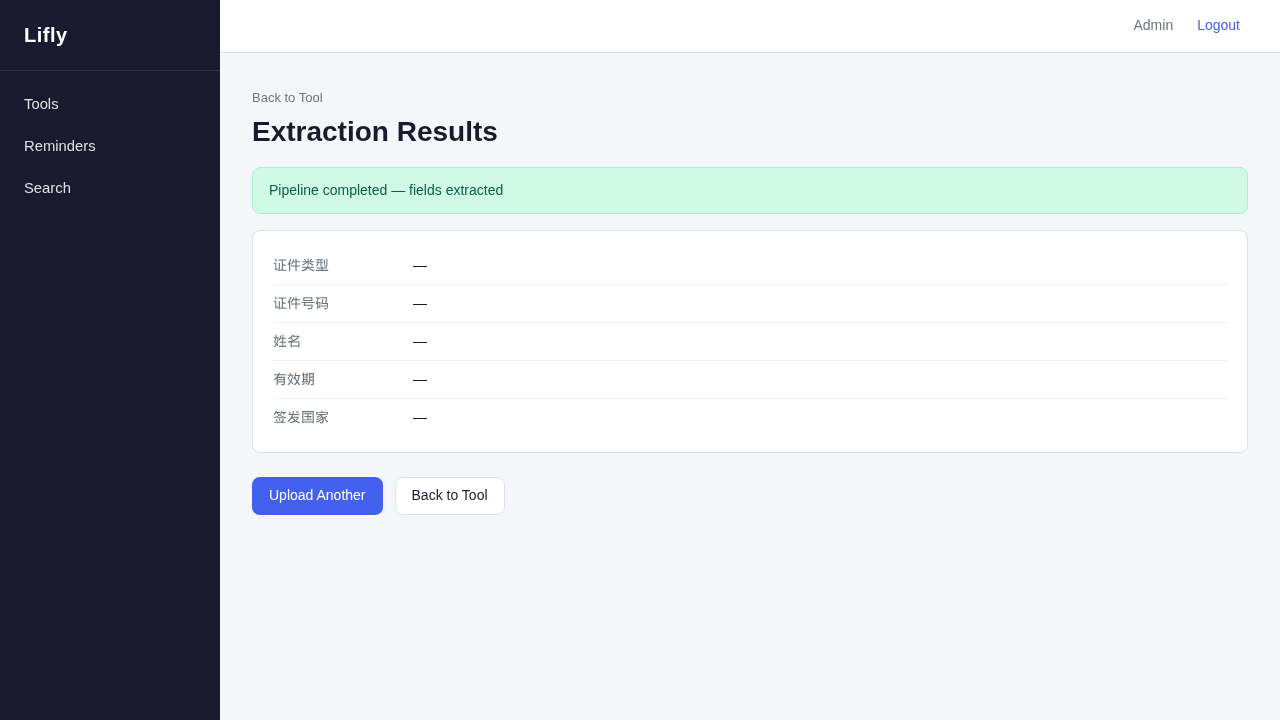
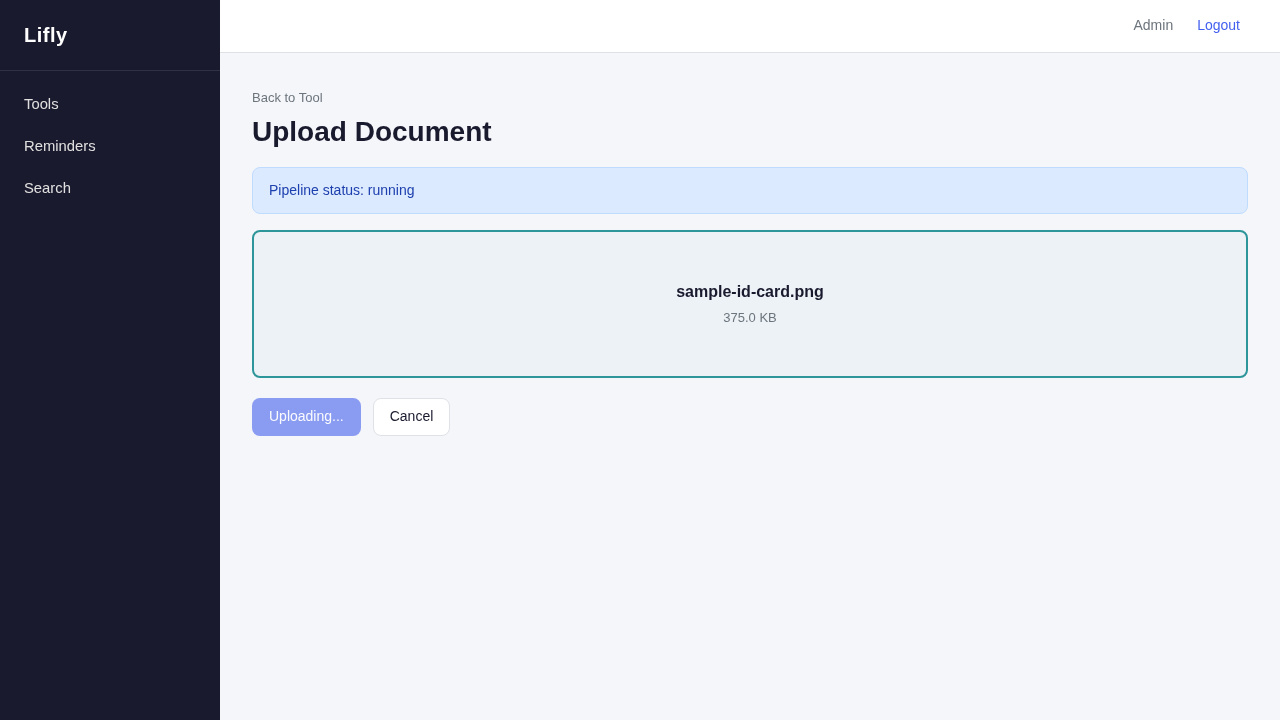
fix: repair document OCR pipeline and improve frontend display
Backend fixes:
- Fix Gemini model names (gemini-3.1-pro → gemini-2.5-pro, etc.)
  that caused 404 errors on all LLM pipeline steps
- Fix mime_type path in step mappings (raw_input.mime_type →
  raw_input.metadata.mime_type)
- Parse LLM JSON responses in executor (handles raw JSON and
  markdown-fenced JSON from Gemini)
- Improve todo_parse prompt to return flat object with original
  content preserved
- Unwrap single-item array wrappers in data_object_write
- Fix integration test pipeline polling timeout

Frontend fixes:
- Fix FileStorage type to match backend (file_name, mime_type,
  file_size)
- Show uploaded image preview in extraction results
- Fix displayTitle to skip base64 data, prefer content field
- Detect and label base64 image data in attribute display
- Filter WebSocket pipeline events by pipeline_id to prevent
  cross-pipeline interference
- Improve E2E test stability with proper timeouts

OCR now successfully extracts: 证件类型, 证件号码, 姓名, 有效期,
签发国家 from real ID card images via Gemini 2.5 Pro vision.

All 36 E2E tests passing, 0 flaky.

diff --git a/web/src/pages/DataObjectPage.tsx b/web/src/pages/DataObjectPage.tsx
@@ -5,7 +5,14 @@ import type { DataObject, FileStorage } from '../api/types';
 
 function displayTitle(obj: DataObject): string {
   const a = obj.attributes;
-  return String(a?.title || a?.content || a?.full_name || a?.cert_type || 'Untitled');
+  const candidates = [a?.content, a?.title, a?.full_name, a?.cert_type];
+  for (const c of candidates) {
+    if (c != null) {
+      const s = String(c);
+      if (s.length > 0 && s.length <= 200) return s;
+    }
+  }
+  return 'Untitled';
 }
 
 export default function DataObjectPage() {
@@ -114,12 +121,18 @@ export default function DataObjectPage() {
 
           <h2>Attributes</h2>
           <div className="attributes-view">
-            {Object.entries(obj.attributes || {}).map(([key, value]) => (
-              <div className="detail-row" key={key}>
-                <span className="detail-label">{key}</span>
-                <span>{typeof value === 'object' ? JSON.stringify(value) : String(value)}</span>
-              </div>
-            ))}
+            {Object.entries(obj.attributes || {}).map(([key, value]) => {
+              const str = typeof value === 'object' ? JSON.stringify(value) : String(value ?? '');
+              // Detect base64 image data and truncate display
+              const isBase64Image = typeof value === 'string' && value.length > 500 &&
+                /^[A-Za-z0-9+/=\s]+$/.test(value.slice(0, 100));
+              return (
+                <div className="detail-row" key={key}>
+                  <span className="detail-label">{key}</span>
+                  <span>{isBase64Image ? `[Image data, ${(str.length / 1024).toFixed(0)} KB]` : str}</span>
+                </div>
+              );
+            })}
             {Object.keys(obj.attributes || {}).length === 0 && (
               <p className="empty-state">No attributes.</p>
             )}
@@ -132,10 +145,10 @@ export default function DataObjectPage() {
                 {associatedFiles.map((f) => (
                   <li key={f.id}>
                     <a href={filesApi.getFileUrl(f.id)} target="_blank" rel="noopener noreferrer">
-                      {f.filename}
+                      {f.file_name}
                     </a>
                     <span className="file-meta">
-                      {f.content_type} &middot; {(f.size / 1024).toFixed(1)} KB
+                      {f.mime_type} &middot; {(f.file_size / 1024).toFixed(1)} KB
                     </span>
                   </li>
                 ))}

diff --git a/web/src/pages/DocUploadPage.tsx b/web/src/pages/DocUploadPage.tsx
@@ -19,8 +19,10 @@ export default function DocUploadPage() {
   const [dragging, setDragging] = useState(false);
   const [submitting, setSubmitting] = useState(false);
   const [pipelineStatus, setPipelineStatus] = useState('');
+  const [pipelineId, setPipelineId] = useState('');
   const [error, setError] = useState('');
   const [resultObject, setResultObject] = useState<DataObject | null>(null);
+  const [imagePreview, setImagePreview] = useState<string | null>(null);
 
   const loadResult = useCallback(async () => {
     if (!toolId) return;
@@ -36,7 +38,7 @@ export default function DocUploadPage() {
   }, [toolId]);
 
   useWebSocket((msg) => {
-    if (msg.type === 'pipeline.status') {
+    if (msg.type === 'pipeline.status' && pipelineId && msg.payload.pipeline_id === pipelineId) {
       const status = msg.payload.status as string;
       setPipelineStatus(status);
       if (status === 'completed') {
@@ -81,7 +83,10 @@ export default function DocUploadPage() {
         reader.readAsDataURL(file);
       });
 
-      await rawInputs.createRawInput({
+      // Keep image preview for result display
+      setImagePreview(`data:${file.type};base64,${base64}`);
+
+      const result = await rawInputs.createRawInput({
         tool_id: toolId,
         input_type: 'image',
         raw_content: base64,
@@ -91,6 +96,7 @@ export default function DocUploadPage() {
           size: file.size,
         },
       });
+      if (result.pipeline_id) setPipelineId(result.pipeline_id);
       setPipelineStatus('submitted');
     } catch (err) {
       setError(err instanceof Error ? err.message : 'Upload failed');
@@ -102,8 +108,10 @@ export default function DocUploadPage() {
     setFile(null);
     setSubmitting(false);
     setPipelineStatus('');
+    setPipelineId('');
     setError('');
     setResultObject(null);
+    setImagePreview(null);
   };
 
   // ---------- Extraction results view ----------
@@ -115,6 +123,12 @@ export default function DocUploadPage() {
         <h1>Extraction Results</h1>
 
         <div className="alert alert-success">Pipeline completed — fields extracted</div>
+
+        {imagePreview && (
+          <div className="doc-image-preview">
+            <img src={imagePreview} alt="Uploaded document" style={{ maxWidth: '400px', borderRadius: '8px', border: '1px solid #ddd' }} />
+          </div>
+        )}
 
         <div className="detail-grid">
           {CERT_FIELDS.map(({ key, label }) => (

diff --git a/web/e2e/search.spec.ts b/web/e2e/search.spec.ts
@@ -60,10 +60,17 @@ test.describe('Search', () => {
     await createTodoViaApi(request, baseURL, token, searchTerm);
 
     await page.goto('/search');
-    await page.fill('.search-input', searchTerm);
-    await page.click('button[type="submit"]');
 
-    await expect(page.locator('.table')).toBeVisible({ timeout: 10_000 });
+    // Retry search a few times — LLM pipeline may still be finishing under load
+    for (let attempt = 0; attempt < 3; attempt++) {
+      await page.fill('.search-input', searchTerm);
+      await page.click('button[type="submit"]');
+      const found = await page.locator('.table').isVisible({ timeout: 5_000 }).catch(() => false);
+      if (found) break;
+      await page.waitForTimeout(2000);
+    }
+
+    await expect(page.locator('.table')).toBeVisible({ timeout: 5_000 });
 
     // Click View on first result
     await page.locator('.table tbody tr .btn', { hasText: 'View' }).first().click();

diff --git a/web/src/api/types.ts b/web/src/api/types.ts
@@ -59,11 +59,12 @@ export interface DataObject {
 
 export interface FileStorage {
   id: string;
-  data_object_id: string;
-  filename: string;
-  content_type: string;
-  size: number;
-  storage_path: string;
+  data_object_id: string | null;
+  raw_input_id: string | null;
+  file_name: string;
+  mime_type: string;
+  file_size: number;
+  role: string;
   created_at: string;
 }
 

diff --git a/web/src/pages/ToolPage.tsx b/web/src/pages/ToolPage.tsx
@@ -6,7 +6,15 @@ import type { Tool, DataObject } from '../api/types';
 /** Extract a display title from a data object's attributes. */
 function displayTitle(obj: DataObject): string {
   const a = obj.attributes;
-  return String(a?.title || a?.content || a?.full_name || a?.cert_type || 'Untitled');
+  // Prefer content (original user input), then structured fields; skip base64-like data
+  const candidates = [a?.content, a?.title, a?.full_name, a?.cert_type];
+  for (const c of candidates) {
+    if (c != null) {
+      const s = String(c);
+      if (s.length > 0 && s.length <= 200) return s;
+    }
+  }
+  return 'Untitled';
 }
 
 export default function ToolPage() {

diff --git a/web/src/pages/SearchPage.tsx b/web/src/pages/SearchPage.tsx
@@ -5,7 +5,14 @@ import type { DataObject } from '../api/types';
 
 function displayTitle(obj: DataObject): string {
   const a = obj.attributes;
-  return String(a?.title || a?.content || a?.full_name || a?.cert_type || 'Untitled');
+  const candidates = [a?.content, a?.title, a?.full_name, a?.cert_type];
+  for (const c of candidates) {
+    if (c != null) {
+      const s = String(c);
+      if (s.length > 0 && s.length <= 200) return s;
+    }
+  }
+  return 'Untitled';
 }
 
 export default function SearchPage() {

diff --git a/web/src/pages/TodoInputPage.tsx b/web/src/pages/TodoInputPage.tsx
@@ -9,10 +9,11 @@ export default function TodoInputPage() {
   const [content, setContent] = useState('');
   const [submitting, setSubmitting] = useState(false);
   const [pipelineStatus, setPipelineStatus] = useState('');
+  const [pipelineId, setPipelineId] = useState('');
   const [error, setError] = useState('');
 
   useWebSocket((msg) => {
-    if (msg.type === 'pipeline.status') {
+    if (msg.type === 'pipeline.status' && pipelineId && msg.payload.pipeline_id === pipelineId) {
       const status = msg.payload.status as string;
       setPipelineStatus(status);
       if (status === 'completed') {
@@ -27,11 +28,12 @@ export default function TodoInputPage() {
     setSubmitting(true);
     setError('');
     try {
-      await rawInputs.createRawInput({
+      const result = await rawInputs.createRawInput({
         tool_id: toolId,
         input_type: 'text',
         raw_content: content.trim(),
       });
+      if (result.pipeline_id) setPipelineId(result.pipeline_id);
       setPipelineStatus('submitted');
     } catch (err) {
       setError(err instanceof Error ? err.message : 'Failed to create todo');

diff --git a/web/e2e/todo.spec.ts b/web/e2e/todo.spec.ts
@@ -61,8 +61,8 @@ test.describe('Todo Tool', () => {
     await expect(page).toHaveURL(`/tools/${TODO_TOOL_ID}`, { timeout: 20_000 });
 
     // The new todo should appear in the list
-    await expect(page.locator('.todo-list')).toBeVisible({ timeout: 5_000 });
-    await expect(page.locator('.todo-item', { hasText: todoText })).toBeVisible();
+    await expect(page.locator('.todo-list')).toBeVisible({ timeout: 10_000 });
+    await expect(page.locator('.todo-item', { hasText: todoText })).toBeVisible({ timeout: 10_000 });
   });
 
   test('toggle todo done status', async ({ page, request }) => {

diff --git a/server/src/tool/pipeline/executor.rs b/server/src/tool/pipeline/executor.rs
@@ -77,7 +77,7 @@ impl StepExecutor {
                     .unwrap_or(Value::Null);
 
                 // If the data is a JSON string, try to parse it.
-                let attributes = if let Some(s) = raw_data.as_str() {
+                let parsed = if let Some(s) = raw_data.as_str() {
                     serde_json::from_str(s).unwrap_or_else(|_| {
                         serde_json::json!({ "content": s })
                     })
@@ -85,6 +85,42 @@ impl StepExecutor {
                     raw_data
                 } else {
                     serde_json::json!({ "content": raw_data })
+                };
+
+                // If parsed data has a single-item array wrapper (e.g. {"todos": [{...}]}),
+                // unwrap the first element and merge with the wrapper's other fields.
+                let attributes = if let Some(obj) = parsed.as_object() {
+                    let arrays: Vec<_> = obj
+                        .iter()
+                        .filter(|(_, v)| v.is_array())
+                        .collect();
+                    if arrays.len() == 1 {
+                        let (_, arr_val) = arrays[0];
+                        if let Some(arr) = arr_val.as_array() {
+                            if arr.len() == 1 {
+                                if let Some(item) = arr[0].as_object() {
+                                    // Merge non-array fields with the item
+                                    let mut merged = item.clone();
+                                    for (k, v) in obj {
+                                        if !v.is_array() {
+                                            merged.insert(k.clone(), v.clone());
+                                        }
+                                    }
+                                    Value::Object(merged)
+                                } else {
+                                    parsed
+                                }
+                            } else {
+                                parsed
+                            }
+                        } else {
+                            parsed
+                        }
+                    } else {
+                        parsed
+                    }
+                } else {
+                    parsed
                 };
 
                 let obj = data_repo::create_data_object(
@@ -257,7 +293,7 @@ impl StepExecutor {
                 let text = input
                     .get("text")
                     .and_then(|v| v.as_str())
-                    .unwrap_or("Describe this image.");
+                    .unwrap_or("Analyze this image and follow the instructions in your system prompt.");
                 gemini::build_image_request(image_base64, mime_type, text, system_prompt, temperature)
             }
             "image_generation" => {
@@ -339,12 +375,46 @@ impl StepExecutor {
             }))
         } else {
             let text_result = gemini::extract_text(&gemini_resp).unwrap_or_default();
+            // Try to parse the text as JSON so downstream steps can access fields.
+            let result_value = Self::try_parse_json_response(&text_result);
             Ok(serde_json::json!({
-                "result": text_result,
+                "result": result_value,
                 "model": model,
                 "raw_response": response_body,
             }))
         }
+    }
+
+    /// Try to parse an LLM text response as JSON.
+    /// Handles raw JSON, markdown-fenced JSON (```json ... ```), and plain text.
+    fn try_parse_json_response(text: &str) -> Value {
+        let trimmed = text.trim();
+
+        // Try direct parse first.
+        if let Ok(val) = serde_json::from_str::<Value>(trimmed) {
+            if val.is_object() || val.is_array() {
+                return val;
+            }
+        }
+
+        // Try extracting from markdown code fences: ```json ... ``` or ``` ... ```
+        if let Some(start) = trimmed.find("```") {
+            let after_fence = &trimmed[start + 3..];
+            // Skip optional language tag (e.g., "json")
+            let content_start = after_fence.find('\n').map(|i| i + 1).unwrap_or(0);
+            let content = &after_fence[content_start..];
+            if let Some(end) = content.find("```") {
+                let json_str = content[..end].trim();
+                if let Ok(val) = serde_json::from_str::<Value>(json_str) {
+                    if val.is_object() || val.is_array() {
+                        return val;
+                    }
+                }
+            }
+        }
+
+        // Return as plain string if not parseable.
+        Value::String(text.to_string())
     }
 
     /// Execute a script-based capability. Not implemented for M1.

diff --git a/server/tests/integration.rs b/server/tests/integration.rs
@@ -314,8 +314,16 @@ async fn test_create_raw_input_triggers_pipeline() {
 
     let pipeline_id = body["data"]["pipeline_id"].as_str().unwrap();
 
-    // Wait briefly for the pipeline to complete (it runs in a background task).
-    tokio::time::sleep(std::time::Duration::from_secs(2)).await;
+    // Wait for the pipeline to complete (it runs in a background task).
+    // LLM steps may take several seconds if an API key is configured.
+    for _ in 0..15 {
+        tokio::time::sleep(std::time::Duration::from_secs(1)).await;
+        let (_, check) = auth_get(&app, &format!("/api/pipelines/{pipeline_id}"), &token).await;
+        let st = check["data"]["status"].as_str().unwrap_or("");
+        if st == "completed" || st == "failed" {
+            break;
+        }
+    }
 
     // Check the pipeline status.
     let (status, body) = auth_get(&app, &format!("/api/pipelines/{pipeline_id}"), &token).await;